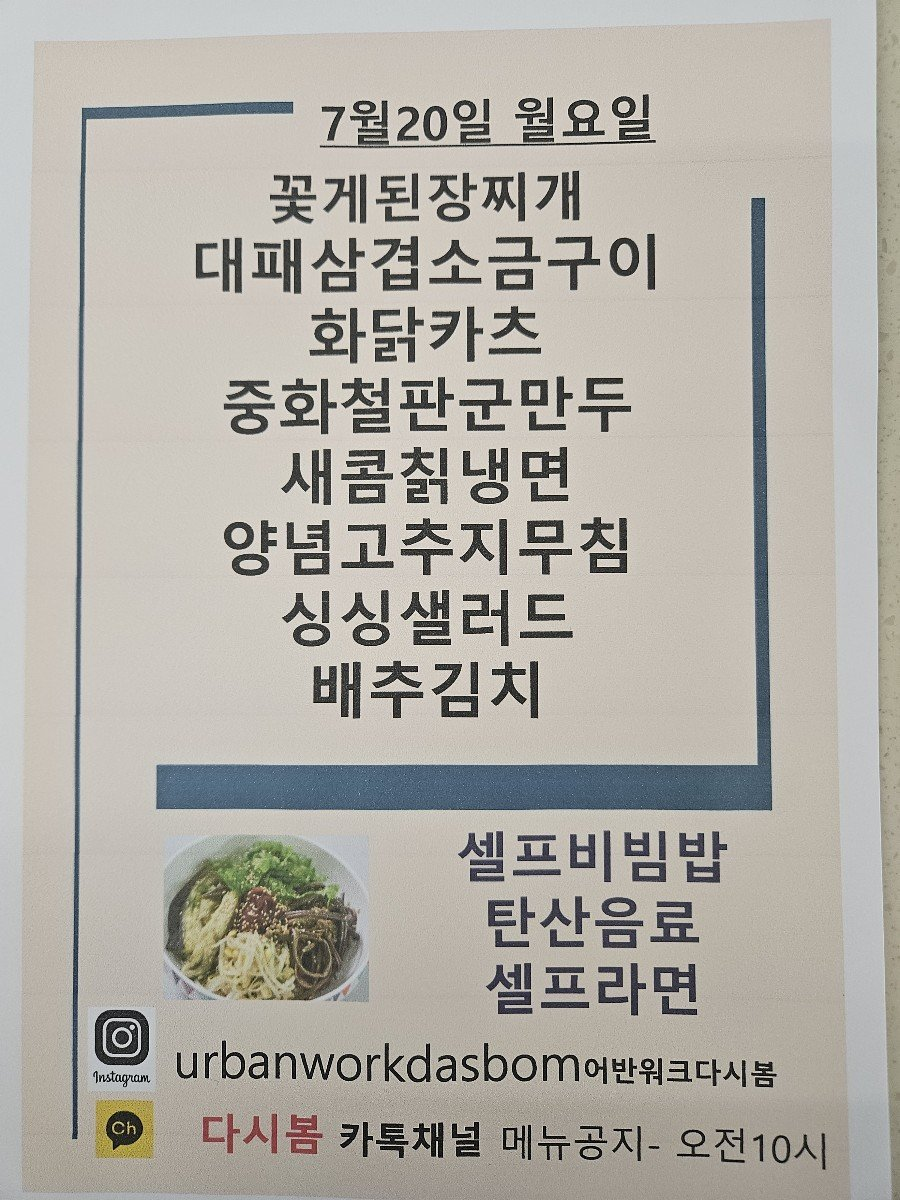
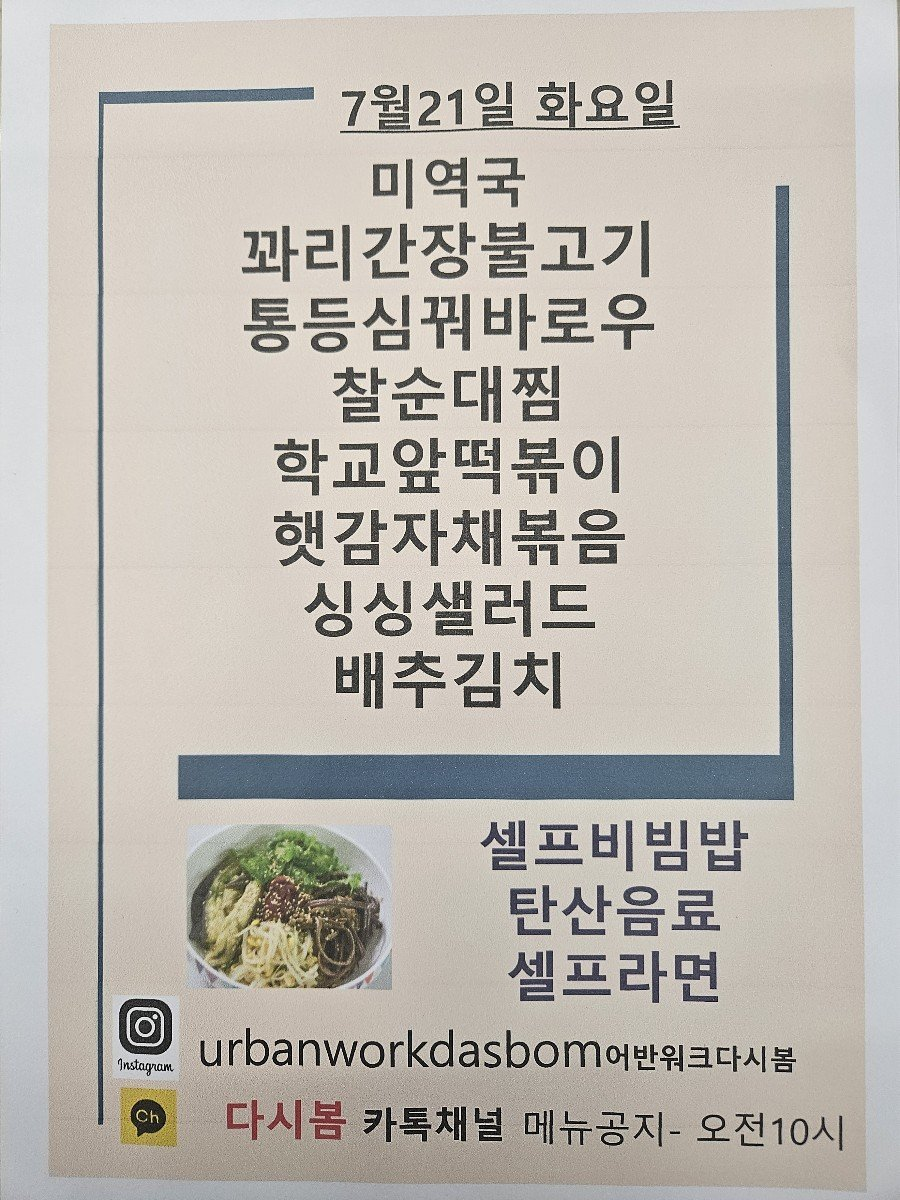
Update menu board assets

diff --git a/menu-today/index.html b/menu-today/index.html
@@ -209,7 +209,7 @@
 
     <section class="meta-bar">
       <div class="meta-card"><div class="meta-label">기준 날짜</div><div class="meta-value">2026년 7월 21일 화요일</div></div>
-      <div class="meta-card"><div class="meta-label">최종 가져온 시간</div><div class="meta-value">2026-07-21 09:33:20</div></div>
+      <div class="meta-card"><div class="meta-label">최종 가져온 시간</div><div class="meta-value">2026-07-21 09:48:12</div></div>
       <div class="meta-card"><div class="meta-label">확인 완료</div><div class="meta-value">9개 식당</div></div>
       <div class="meta-card"><div class="meta-label">준비중</div><div class="meta-value">3개 채널</div></div>
     </section>
@@ -235,7 +235,7 @@
             <div class="sub">가산 어반워크</div>
           </div>
         </div>
-        <div class="menu-inline-image"><img src="./images/dasibom.png" alt="다시 봄 식단 이미지"></div><ul><li>꽂게된장찌개 ;</li><li>대패삼겹소금구이 !</li><li>화닭카츠 !</li><li>중화철판군만두 [</li><li>새콤침냉면</li><li>양념고추지무침</li><li>싱싱샐러드</li><li>배주김치 !</li><li>꽃게된장찌개</li><li>구이</li></ul>
+        <div class="menu-inline-image"><img src="./images/dasibom.png" alt="다시 봄 식단 이미지"></div><ul><li>미역국</li><li>까리간장불고기</li><li>통등심꿔바로우</li><li>찰순대찜</li><li>학교앞떡볶이</li><li>햇감자채볶음</li><li>싱싱샐러드</li><li>배추김치</li><li>등심꿔바로우</li><li>타사으</li></ul>
       </article>
 
       <article class="restaurant-card">

diff --git a/guro-menu/index.html b/guro-menu/index.html
@@ -32,7 +32,7 @@
   </header>
   <section class="meta">
     <div><small>기준 날짜</small><strong>2026년 7월 21일 화요일</strong></div>
-    <div><small>최종 갱신</small><strong>2026-07-21 09:33:35</strong></div>
+    <div><small>최종 갱신</small><strong>2026-07-21 09:48:24</strong></div>
     <div><small>등록 식당</small><strong>5개</strong></div>
   </section>
   <div class="notice">공개 카카오 채널의 메뉴 이미지를 자동 수집하고 OCR로 정리합니다. 텍스트에 오타가 있을 수 있으니 식단 이미지를 함께 확인해 주세요.</div>
